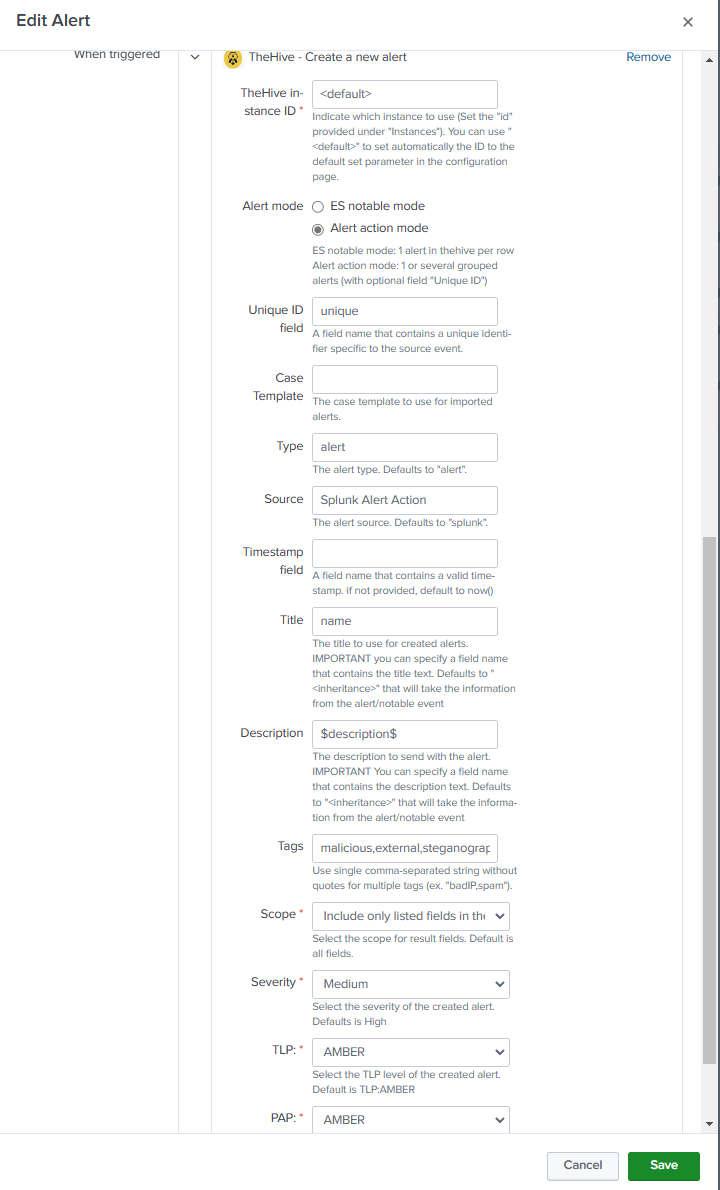
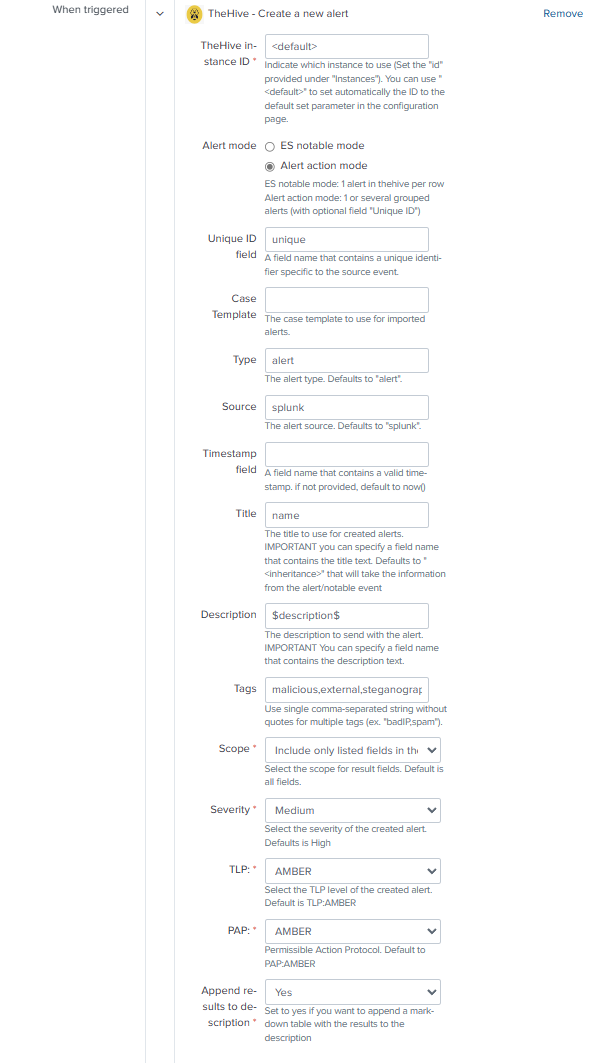
docs: update information with an example for the results appened to the description

diff --git a/docs/alert_actions_and_adaptive_response.md b/docs/alert_actions_and_adaptive_response.md
@@ -124,10 +124,10 @@ Input:
 | table ip, ttp, unique]
 | eventstats values(ip) as all_ip by unique
 | eval all_ip = mvjoin(all_ip,", ")
-| eval name = "Massive scan on website company.corp from "+all_ip, cert-alerted-on=now(), risk="Medium"
+| eval name = "Massive scan on website company.corp from "+all_ip, cert-alerted-on=now(), risk="Medium", info="A custom info added to the event"
 ```
 
-> Please note that the field "all_ip" is used to build the title but will not be taking into account by the script as it's not a relevant field (not a custom field nor an observable or a reserved named field for TheHive)
+> Please note that the field "all_ip" is used to build the title but will not be taking into account by the script as it's not a relevant field (not a custom field nor an observable or a reserved named field for TheHive). However, the option to append the results was selected and a table will be added to the description containing this information.
 
 Output:
 
@@ -243,7 +243,7 @@ Output:
 | Field | Description | UC1 | UC2 | UC3 | UC4
 |---|---|---|---|---|---|
 | Title | This is used to create the title of an alert/case in TheHive  | Use the parameter "&lt;inheritance&gt;" that will take the name of the savedsearch as the title | Use the field named "name" from the results as the title | Use the parameter "&lt;inheritance&gt;" that will take the name of the correlation search as the title | Same as UC3 (if nothing was provided, the name of the search_name from Splunk ES would be taken by default) |
-| Description | This is used to create the description of an alert/case in TheHive| Static string sentence set in the Description alert parameter | Use the savedsearch description itself as the description of the alert/case | Same as UC2 | [Intentional bug] The default "No description provided" is used as the token `$description$` is returning nothing because it's a notable event and not a savedsearch or correlation search |
+| Description | This is used to create the description of an alert/case in TheHive| Static string sentence set in the Description alert parameter | Use the savedsearch description itself as the description of the alert/case, including the results appened thanks to the option configuration in the Splunk alert. Fields are sanitized to remove any field already used by TheHive in another field. | Same as UC2, without results appened | [Intentional bug] The default "No description provided" is used as the token `$description$` is returning nothing because it's a notable event and not a savedsearch or correlation search |
 | TLP | This is used to set the TLP of an alert/case | Set to "AMBER" in the savedsearch configuration | Same as UC1 | Set to "AMBER" in the correlation search configuration | Set to "RED" in the adaptative response configuration |
 | PAP | This is used to set the PAP of an alert/case | Set to "AMBER" in the savedsearch configuration | Same as UC1 | Set to "AMBER" in the correlation search configuration | Set to "GREEN" in the adaptative response configuration |
 | Severity | This is used to set the severity of an alert/case | Set to "Medium" in the savedsearch configuration | Same as UC1 | Set to "High" in the correlation search configuration | Automatically set based on the notable event severity, here "CRITICAL" |
